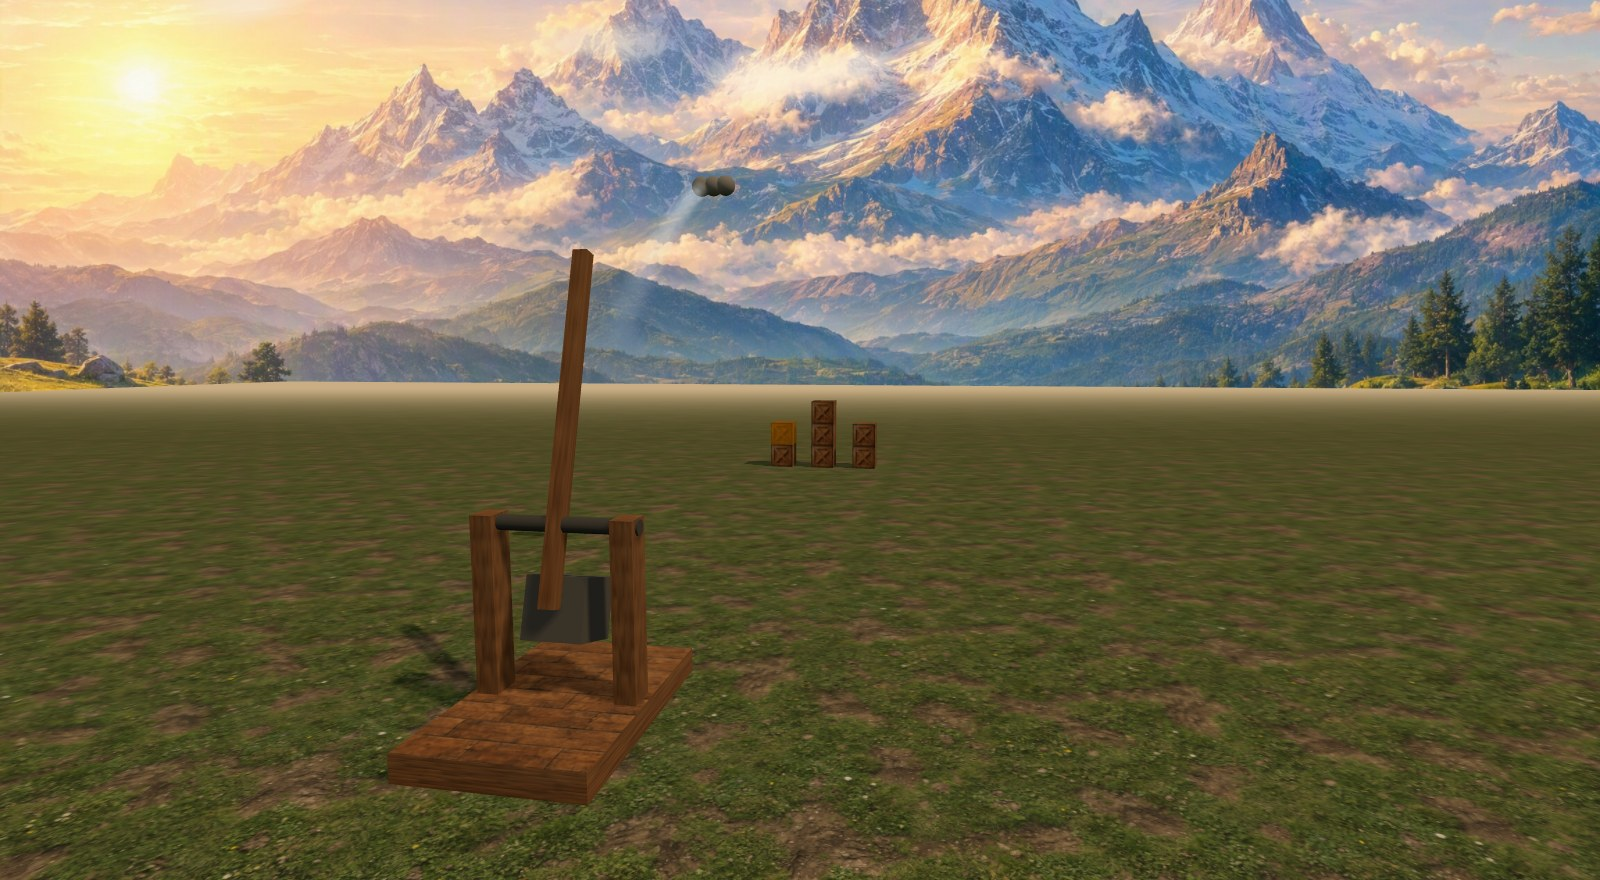
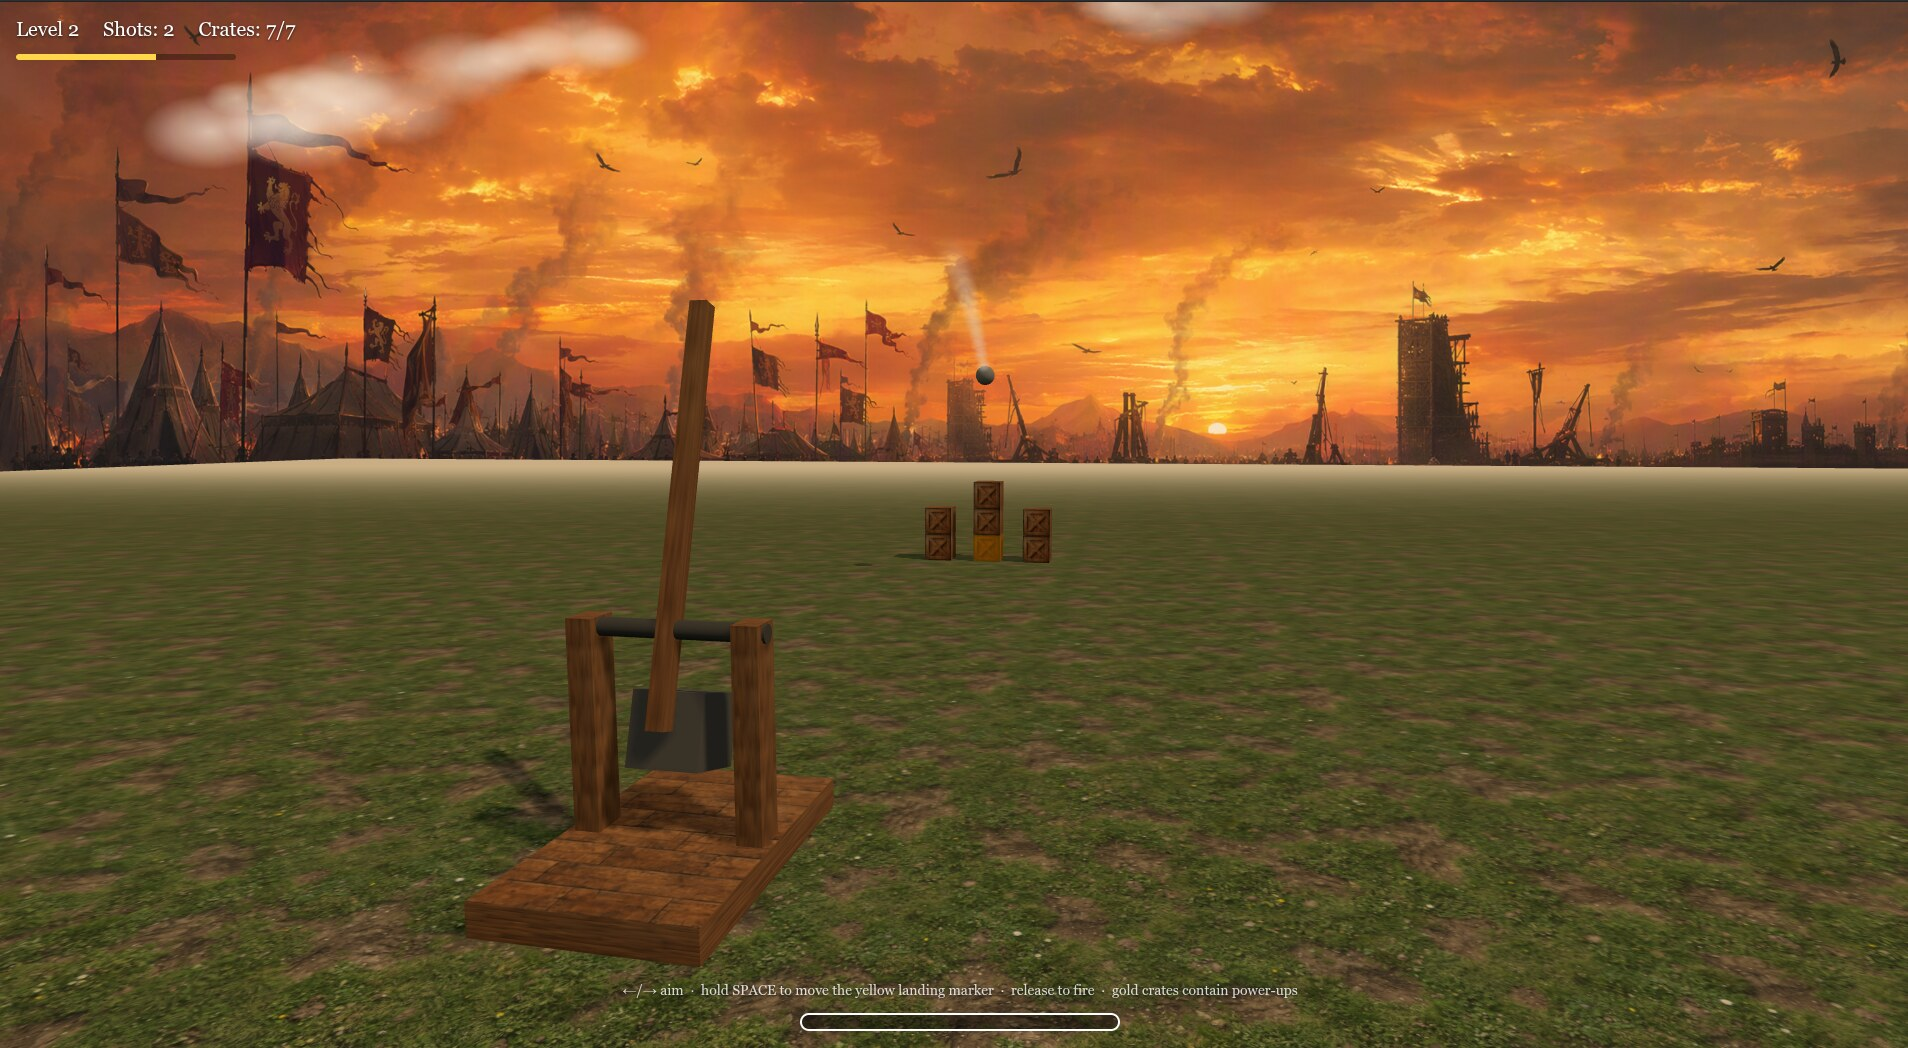
Use gameplay screenshot from playtesting in README

diff --git a/README.md b/README.md
@@ -8,7 +8,7 @@ castles. Aim, charge, release — then watch the wreckage settle while smoke
 drifts, the camera shudders, and your last crate falls in glorious slow
 motion. It's harder than it looks. That's part of the charm.
 
-![A trebuchet flings a boulder toward crate towers beneath sunrise mountains](assets/screenshot.jpg)
+![A trebuchet flings a boulder toward crate towers before a burning sunset battlefield](assets/screenshot.jpg)
 
 ## How to play
 
